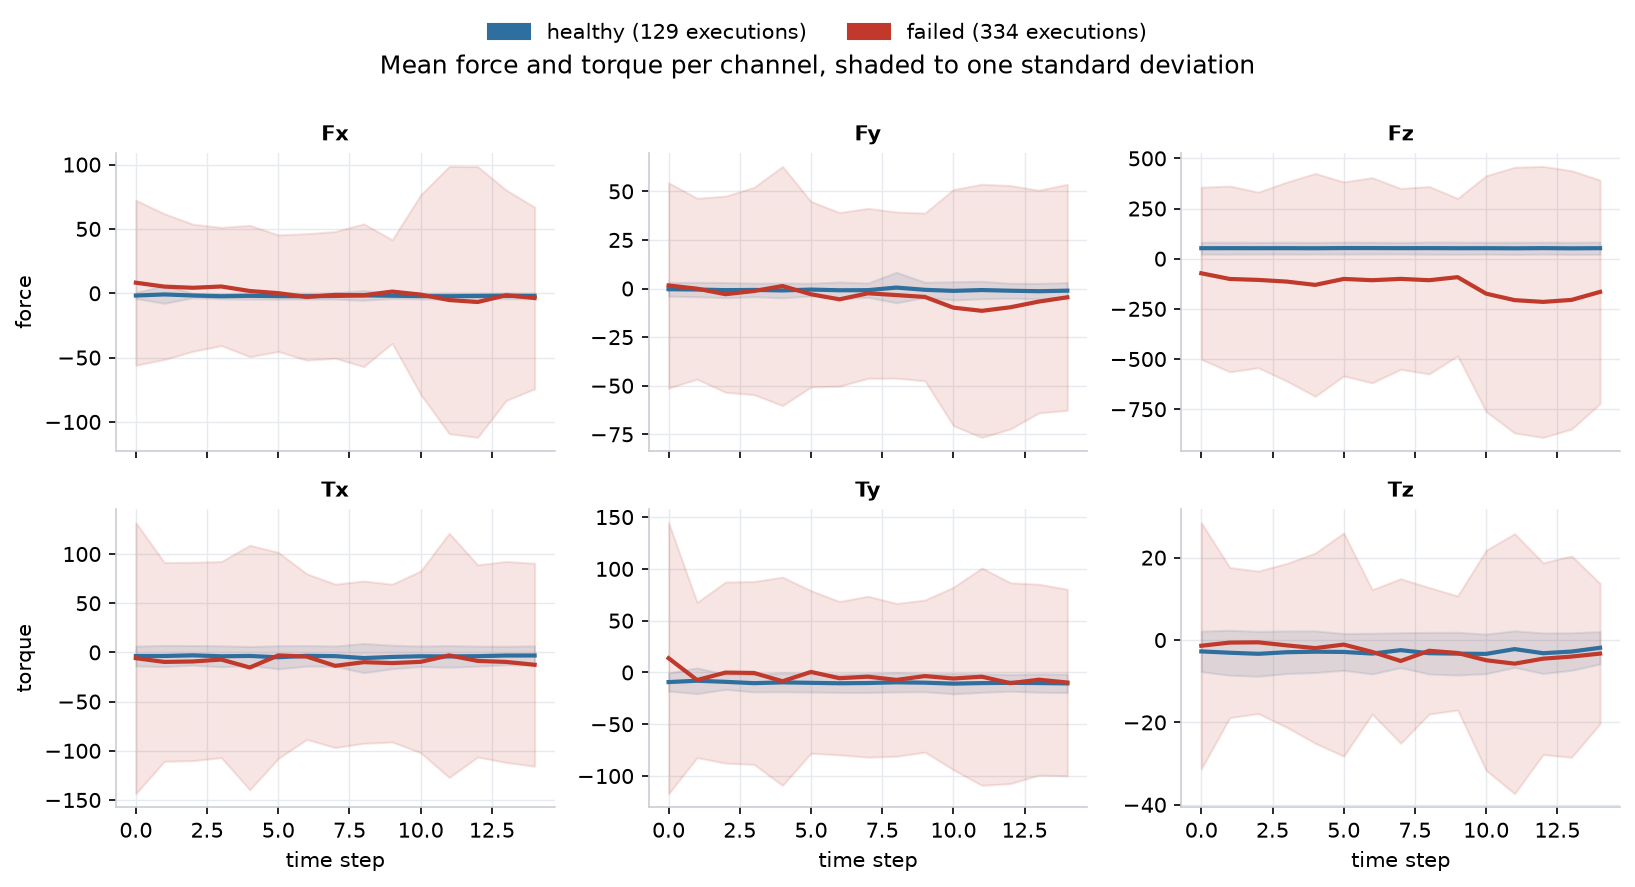
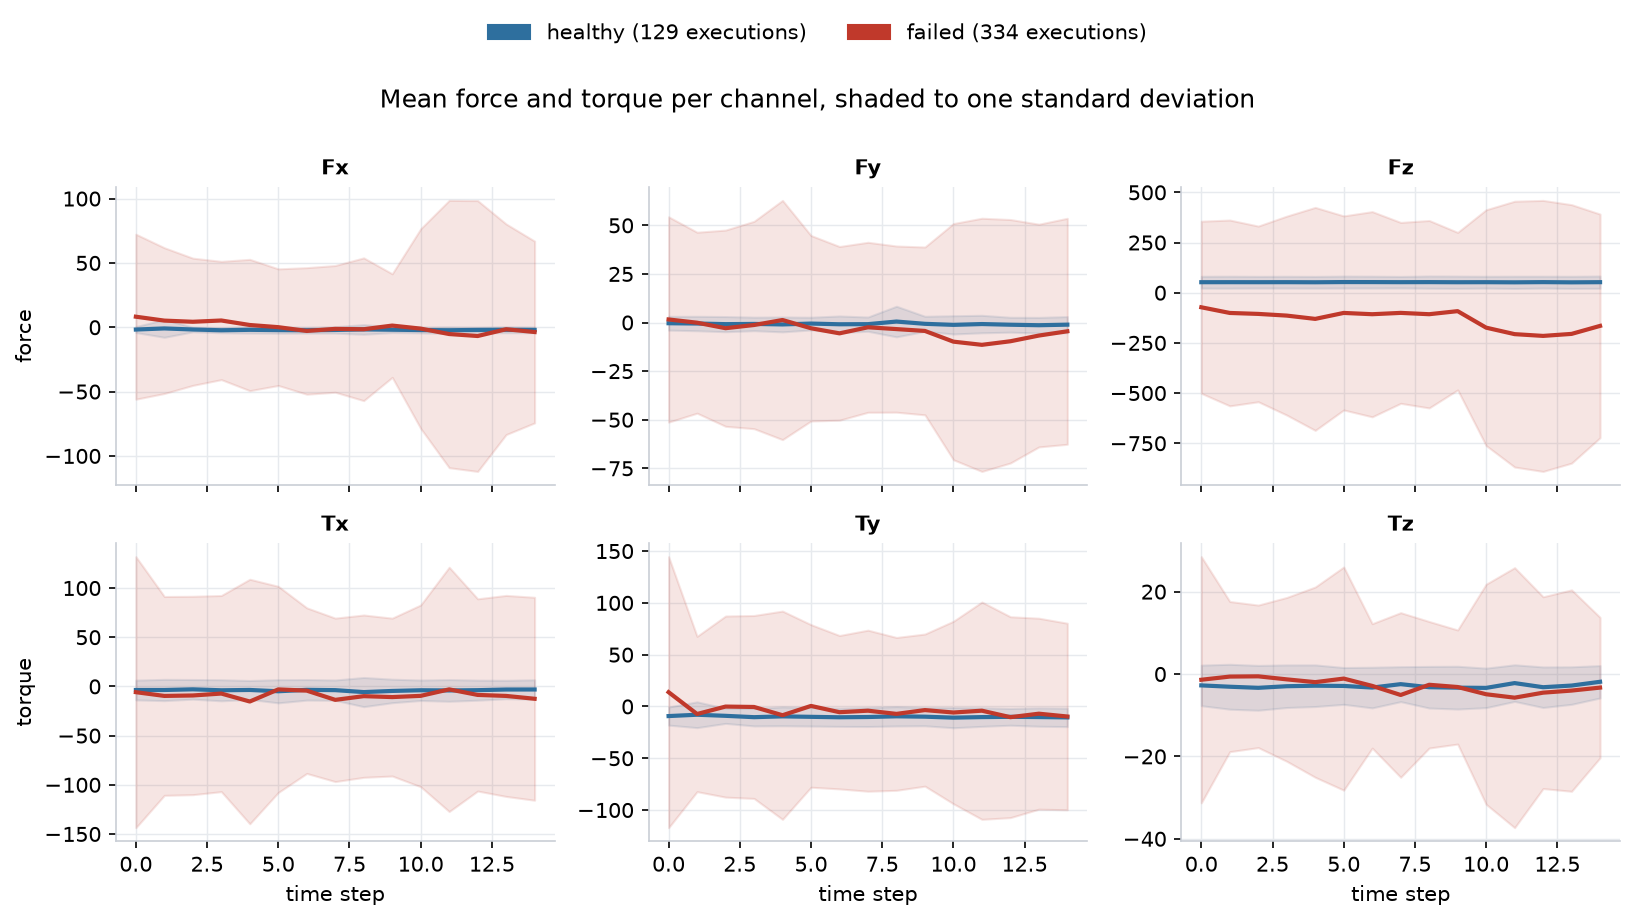
fix(figures): la légende des signaux recouvrait le titre, importance des features publiée
La figure d'importance était produite et jamais montrée. Elle porte pourtant la
lecture physique des tracés : ce ne sont pas les moyennes qui séparent, c'est la
dispersion, et Fx_std et Fz_std arrivent en tête.

diff --git a/scripts/figures.py b/scripts/figures.py
@@ -202,7 +202,7 @@ def figure_signals(frame, out: Path) -> None:
         Patch(color=HEALTHY, label=f"healthy ({len(healthy)} executions)"),
         Patch(color=ANOMALY, label=f"failed ({len(failed)} executions)"),
     ]
-    figure.legend(handles=handles, loc="upper center", ncol=2, bbox_to_anchor=(0.5, 1.06))
+    figure.legend(handles=handles, loc="upper center", ncol=2, bbox_to_anchor=(0.5, 1.10))
     figure.suptitle("Mean force and torque per channel, shaded to one standard deviation", y=1.0)
     figure.tight_layout()
     figure.savefig(out / "healthy-vs-failed-signals.png")

diff --git a/README.md b/README.md
@@ -285,6 +285,11 @@ check. All three now run on every commit.
 
 ![Mean force and torque per channel, healthy against failed](assets/healthy-vs-failed-signals.png)
 
+Failures are not separated by where the mean sits. They are separated by how
+much the signal moves, which is why the forest leans on dispersion first:
+
+![The fifteen sensor statistics the forest leans on](assets/feature-importance.png)
+
 ![Confusion matrices for the best supervised model and the best detector](assets/confusion-matrices.png)
 
 ## Design decisions
